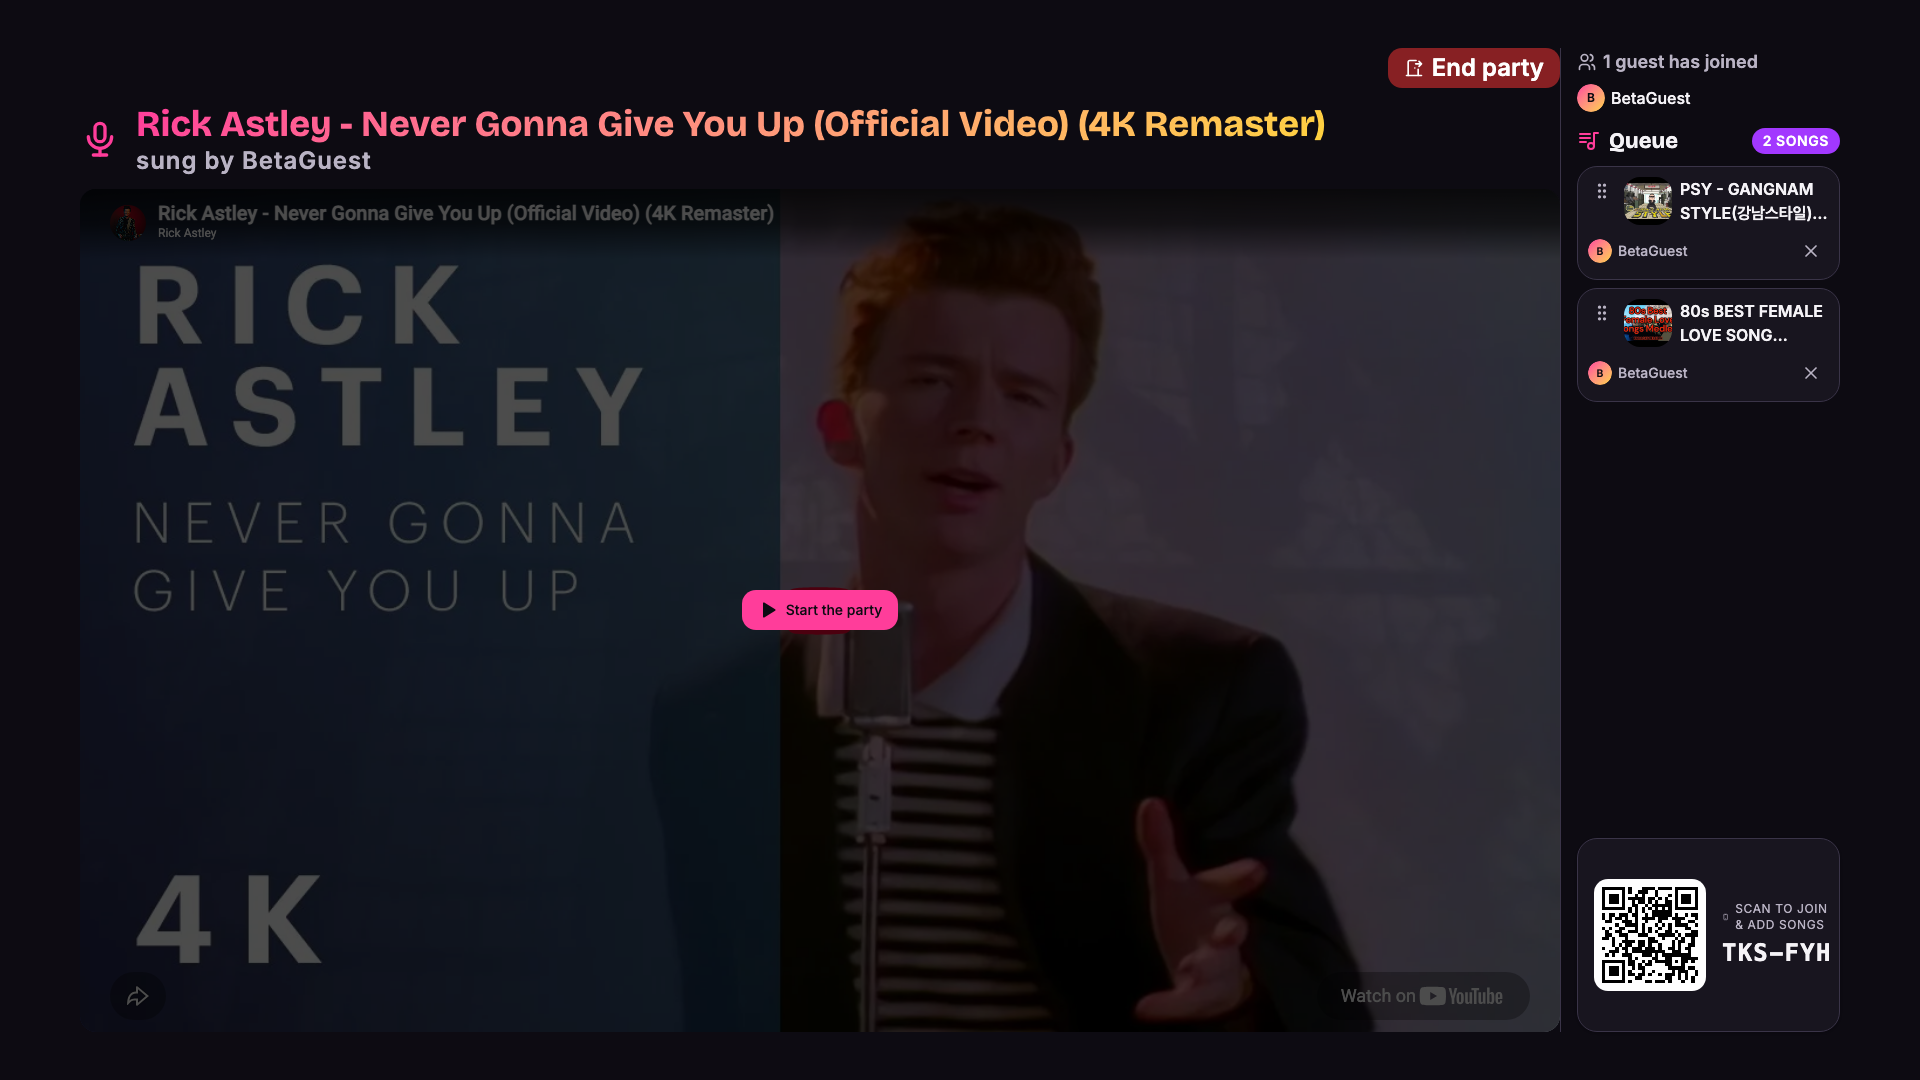
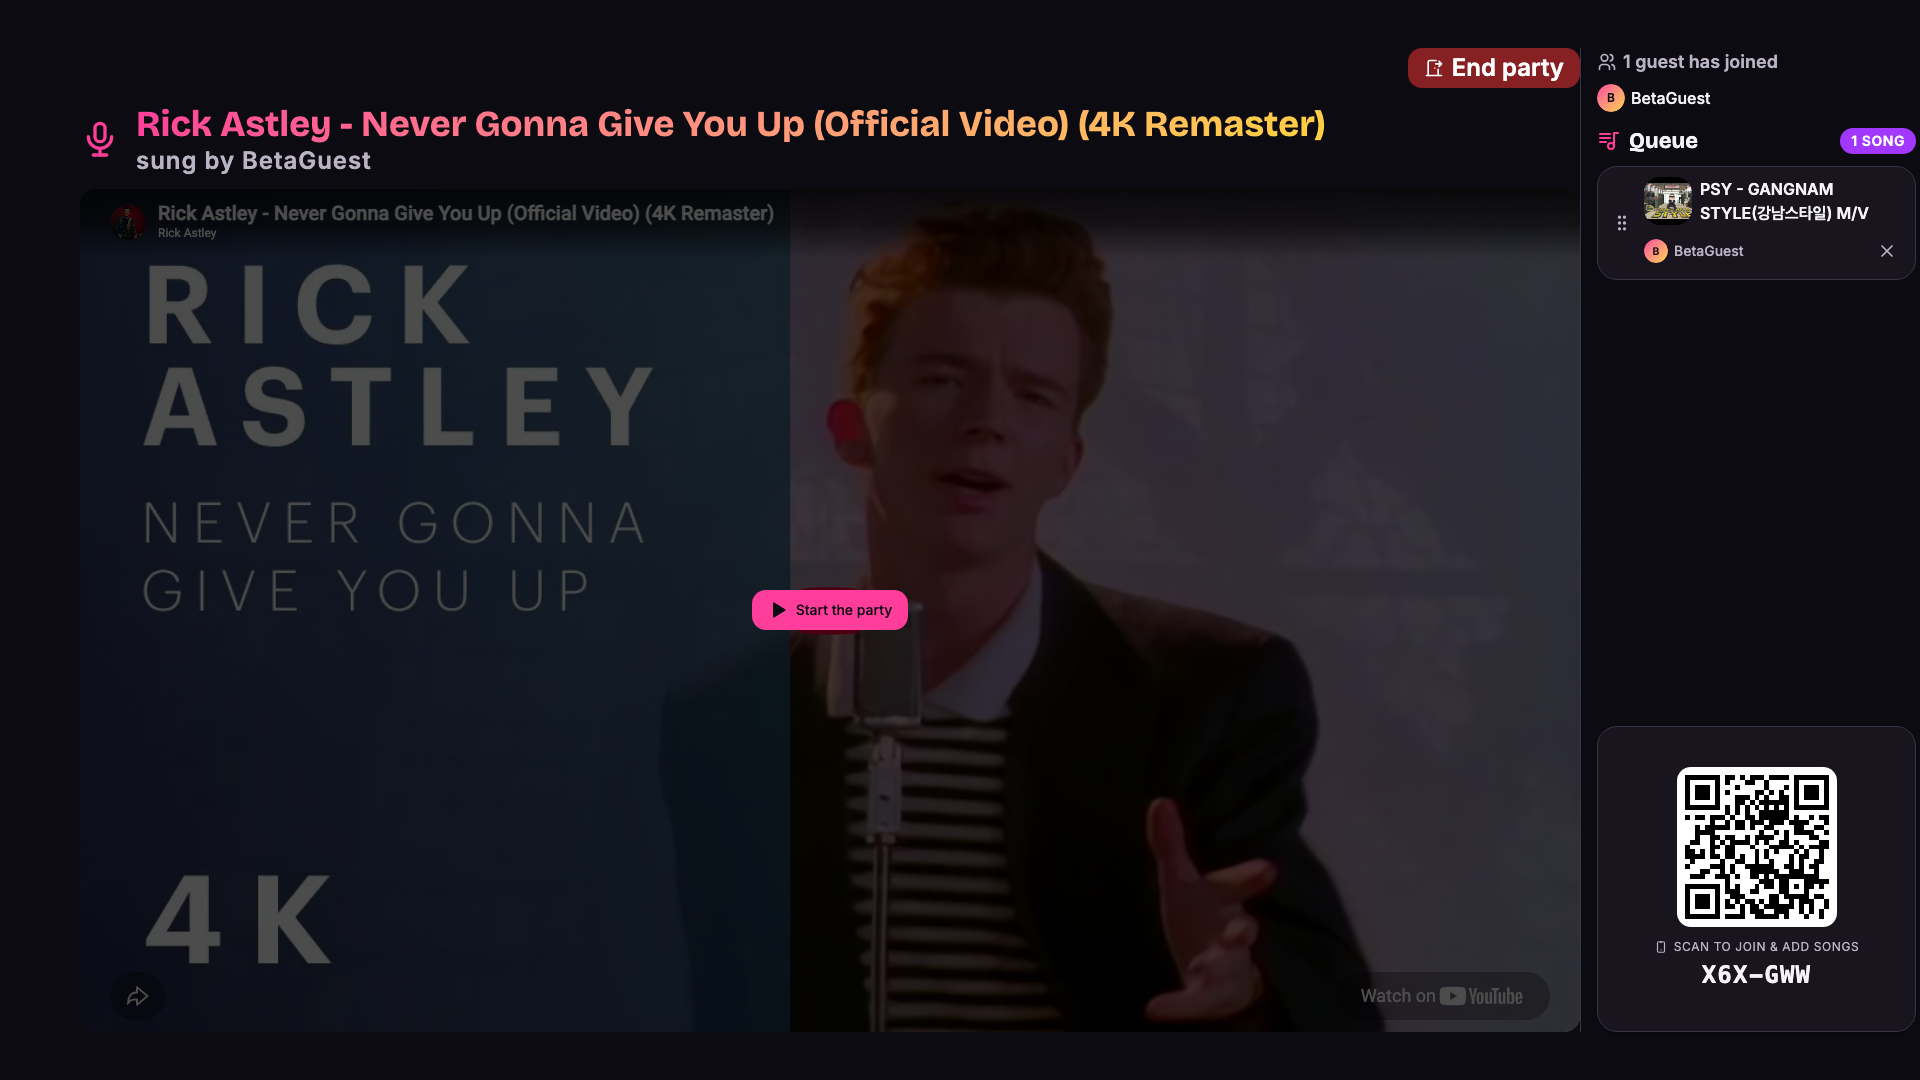
fix(tv): rail QR column layout, isolated drag column, rail flush to screen edge (#6)
* fix(tv): stack the rail QR card, isolate the drag column, pull the rail to the screen edge

The compact QR card becomes a column (144px QR above label and room code)
instead of a squished row; TV queue cards split into a lone drag-handle
column beside a thumbnail-inline-with-title block; and the rail widens to
336px, cancelling the tv-safe right padding down to a constant 4px gap.

* fix: address Greptile pre-PR review findings

Single-sources the tv-safe inline padding as --tv-safe-inline so the rail's
negative-margin pull can't silently drift from the token, and corrects the
stale ~320px comment in the TV queue-row branch.

* docs(brain): record PR #6 checkpoint

---------

diff --git a/app/components/room/queue-rail.tsx b/app/components/room/queue-rail.tsx
@@ -354,10 +354,12 @@ function QueueRow({
     </Button>
   ) : null;
 
-  // TV rail (~280px): a VERTICAL card — thumbnail + title on top, the meta
-  // row (added-by + own marker + remove) beneath — so a long title gets the
-  // full card width for its 2-line clamp instead of competing horizontally
-  // with the badge/remove controls (beta feedback: top-to-bottom fits more).
+  // TV rail (~336px): two COLUMNS — the drag handle lives alone in a
+  // left column (vertically centered against the full card height), and a
+  // right column stacks the video preview + title INLINE on one row over
+  // the meta row (added-by + own marker + remove) beneath. Beta feedback:
+  // isolating the drag handle keeps the reorder affordance from crowding
+  // the thumbnail/title, and the thumbnail reads as part of the title line.
   if (isTv) {
     return (
       <li
@@ -366,21 +368,23 @@ function QueueRow({
         data-testid="room-queue-item"
         data-own={isOwn ? "true" : undefined}
         className={cn(
-          "flex flex-col gap-2 rounded-xl border border-border bg-card p-2.5",
+          "flex items-center gap-2 rounded-xl border border-border bg-card p-2.5",
           isOwn && "border-primary/50 bg-primary/5",
           isDragging && "z-10 opacity-70 shadow-md",
           entered && "animate-queue-row-in"
         )}
       >
-        <div className="flex items-start gap-2">
-          {dragHandle}
-          {thumbnail}
-          <div className="min-w-0 flex-1">{title}</div>
-        </div>
-        <div className="flex items-center gap-2">
-          <div className="min-w-0 flex-1">{singer}</div>
-          {ownBadge}
-          {removeButton}
+        {dragHandle}
+        <div className="flex min-w-0 flex-1 flex-col gap-2">
+          <div className="flex items-center gap-2">
+            {thumbnail}
+            <div className="min-w-0 flex-1">{title}</div>
+          </div>
+          <div className="flex items-center gap-2">
+            <div className="min-w-0 flex-1">{singer}</div>
+            {ownBadge}
+            {removeButton}
+          </div>
         </div>
       </li>
     );

diff --git a/app/routes/room/$code.tsx b/app/routes/room/$code.tsx
@@ -580,15 +580,21 @@ function RoomHostView({
       {/* RIGHT RAIL — playing state only, spanning the full viewport height
           (annotation H): a sibling of MAIN so it runs from the top of the
           tv-safe content area to the bottom (top-aligned above the title),
-          rather than starting below the top bar. Slimmed 320 -> 280px
-          (annotation H) to give the video more room. Participants on top, the
+          rather than starting below the top bar. Participants on top, the
           queue filling the flex-1 middle with its own scroll, the join QR
           pinned at the bottom so guests can keep scanning mid-session. Kept
-          mounted, hidden in the lobby. */}
+          mounted, hidden in the lobby.
+
+          Widened 280 -> 336px and pulled flush to the screen edge: the root
+          `tv-safe` padding-inline (--tv-safe-inline, 80px at 1920) left a
+          dead right margin, so a negative right margin cancels that padding
+          down to a 4px gap (beta feedback). Referencing the custom property
+          keeps this in lockstep with the tv-safe token in app.css — the gap
+          holds at every viewport width and survives future token edits. */}
       <div
         data-testid="room-playing-rail"
         className={cn(
-          "flex min-h-0 w-full shrink-0 flex-col gap-4 border-t border-border pt-4 lg:w-[280px] lg:border-l lg:border-t-0 lg:pl-4 lg:pt-0",
+          "flex min-h-0 w-full shrink-0 flex-col gap-4 border-t border-border pt-4 lg:w-[336px] lg:-mr-[calc(var(--tv-safe-inline)_-_4px)] lg:border-l lg:border-t-0 lg:pl-4 lg:pt-0",
           !hasCurrentItem && "hidden"
         )}
       >

diff --git a/app/components/room/join-panel.tsx b/app/components/room/join-panel.tsx
@@ -39,8 +39,12 @@ export function JoinPanel({ joinUrl, code, size = "sm", className }: JoinPanelPr
       >
         <CardContent
           className={cn(
-            "flex items-center gap-4 p-4",
-            isLarge && "h-full flex-col justify-center gap-6 p-10"
+            // Both variants stack top-to-bottom now (beta feedback: the sm
+            // corner card used to be a side-by-side row that squished the QR
+            // against the code). QR on top, then the hint label, then the
+            // code — centered in either size.
+            "flex flex-col items-center gap-3 p-4",
+            isLarge && "h-full justify-center gap-6 p-10"
           )}
         >
           {/* Literal white, not a theme token: QR scanners need a light quiet
@@ -53,12 +57,12 @@ export function JoinPanel({ joinUrl, code, size = "sm", className }: JoinPanelPr
               isLarge && "rounded-2xl p-6"
             )}
           >
-            <QRCodeSVG value={joinUrl} size={isLarge ? 240 : 96} />
+            <QRCodeSVG value={joinUrl} size={isLarge ? 240 : 144} />
           </div>
           <div
             className={cn(
-              "flex flex-col gap-1",
-              isLarge && "items-center gap-3 text-center"
+              "flex flex-col items-center gap-1 text-center",
+              isLarge && "gap-3"
             )}
           >
             <span

diff --git a/app/app.css b/app/app.css
@@ -254,14 +254,20 @@ body {
   text-transform: uppercase;
 }
 
-/* ~5% safe margins for TV-viewport layouts. See design.md §Typography. */
+/* ~5% safe margins for TV-viewport layouts. See design.md §Typography.
+   --tv-safe-inline is the single source of truth — the playing-state rail
+   cancels it with a negative margin (room/$code.tsx), so change it HERE only. */
+:root {
+  --tv-safe-inline: clamp(1.5rem, 5vw, 5rem);
+}
+
 @utility tv-safe {
-  padding-inline: clamp(1.5rem, 5vw, 5rem);
+  padding-inline: var(--tv-safe-inline);
   padding-block: clamp(1rem, 5vh, 3rem);
 }
 
 @utility tv-safe-x {
-  padding-inline: clamp(1.5rem, 5vw, 5rem);
+  padding-inline: var(--tv-safe-inline);
 }
 
 @utility tv-safe-y {

diff --git a/.brain/features/tv-beta-polish/runs/2026-07-17-progress.md b/.brain/features/tv-beta-polish/runs/2026-07-17-progress.md
@@ -71,3 +71,15 @@ annotations.json: 9 open pins across 01/03/04/05 screenshots
 ```
 typecheck 0; tests 429/429; playing scrollHeight 1080==1080; rail box {x:1560,y:48,w:280,h:984}. Coordinator eyeballed all 4 shots vs pins — match.
 ```
+
+## Step 13 — 3 new pin annotations on 05-tv-playing-state (post-merge): QR card row→column, queue-card drag handle alone in left col w/ thumb inline with title, rail extends to ~4px of screen right edge + wider. Opus fixer dispatched on branch fix/tv-rail-annotations off main f03313a
+
+```
+brain shots notes: 3 open, 9 superseded
+```
+
+## Step 14 — 3 rail pins fixed (opus, branch fix/tv-rail-annotations): JoinPanel sm variant → column (144px QR top, label, code), TV queue card → drag handle alone in left col + thumbnail inline with title + meta row beneath, rail 280→336px pulled to exactly 4px of screen right edge via -mr calc tracking the tv-safe clamp
+
+```
+typecheck 0; tests 429/429; measured railRight=1916/1920 → 4px gap; zero page scroll; shot 05 re-captured, 3 open pins superseded
+```

diff --git a/.brain/runs/progress.md b/.brain/runs/progress.md
@@ -21,6 +21,13 @@
 
 ---
 
+## 2026-07-17 — PR opened for tv-beta-polish: https://github.com/SeanningTatum/home-karaoke/pull/6
+- branch: `fix/tv-rail-annotations`
+- in-progress feature: none
+- run note: none
+
+---
+
 ## 2026-07-17 — PR #5 SQUASH-MERGED to main (f03313a): feat-009 tv-beta-polish complete end-to-end. Post-open cycle: overlay animationend bubbling guard (bcebf47), main merged back in (room.closed #4 wiring intact, conflict in progress.md unioned), PR body screenshot tables (SHA-pinned raw URLs), 9 user pin-annotations fixed via opus (lobby participants-1/3 + always-visible queue, full-height QR card, navbar title, TV mute button removed, phone Controls PARTY start/end section + confirm dialog, tap-reorder arrows dropped, rail 280px full-height, vertical queue cards) — all superseded by re-captured shots. CI green all 5 checks pre-merge, 429 tests. Branch deleted.
 - branch: `main`
 - in-progress feature: none
